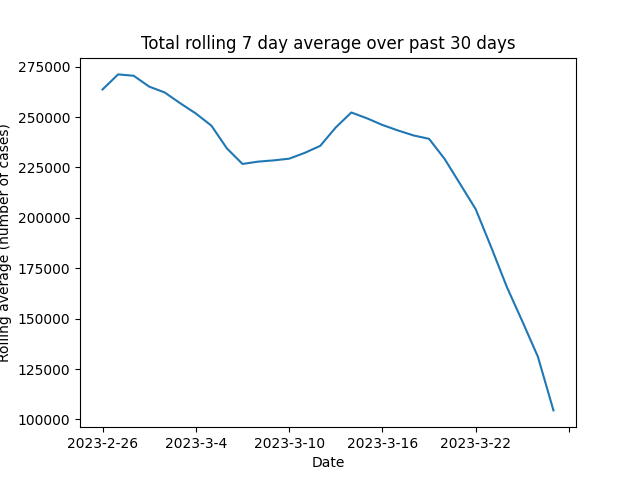
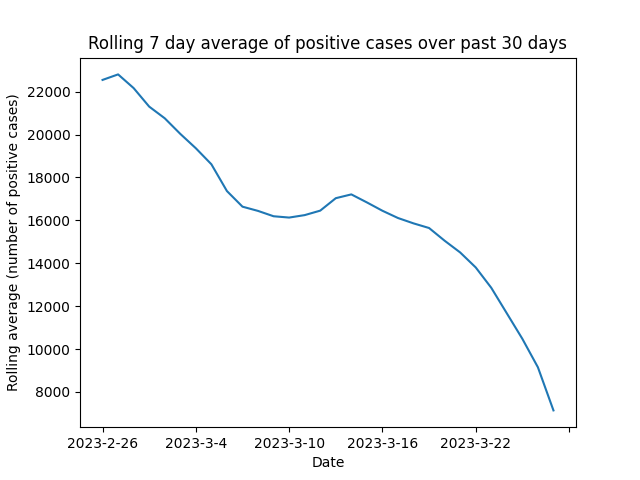
Only counts positive cases is step 2

diff --git a/calculations/calculations.py b/calculations/calculations.py
@@ -32,8 +32,8 @@ def get_rolling_averages(df, average_length, number_of_days):
 	for i in range(dataset_length):
 		current_date = oldest_date + datetime.timedelta(days=i)
 		datestr = f'{current_date.year}-{current_date.month}-{current_date.day}'
-		new_tests_on_current_date = df.query(f'date == "{datestr}"')['new_results_reported'].sum()
-		total_new_case_queue.append(new_tests_on_current_date)
+		new_cases_on_current_date = df.query(f'date == "{datestr}" & overall_outcome == "Positive"')['new_results_reported'].sum()
+		total_new_case_queue.append(new_cases_on_current_date)
 		if len(total_new_case_queue) == average_length:
 			rolling_average_with_date.append((datestr, round(sum(total_new_case_queue) / average_length, 2)))
 			total_new_case_queue.pop(0)

diff --git a/plotting/plotting.py b/plotting/plotting.py
@@ -3,7 +3,7 @@ import matplotlib.pyplot as plt
 def plot_rolling_averages_over_time(rolling_average_with_date):
 	plt.plot(*zip(*rolling_average_with_date))
 	plt.gca().xaxis.set_major_locator(plt.MultipleLocator(6))
-	plt.title('Total rolling 7 day average over past 30 days')
+	plt.title('Rolling 7 day average of positive cases over past 30 days')
 	plt.xlabel('Date')
-	plt.ylabel('Rolling average (number of cases)')
+	plt.ylabel('Rolling average (number of positive cases)')
 	plt.savefig(f'figures/rolling_average.png') 
